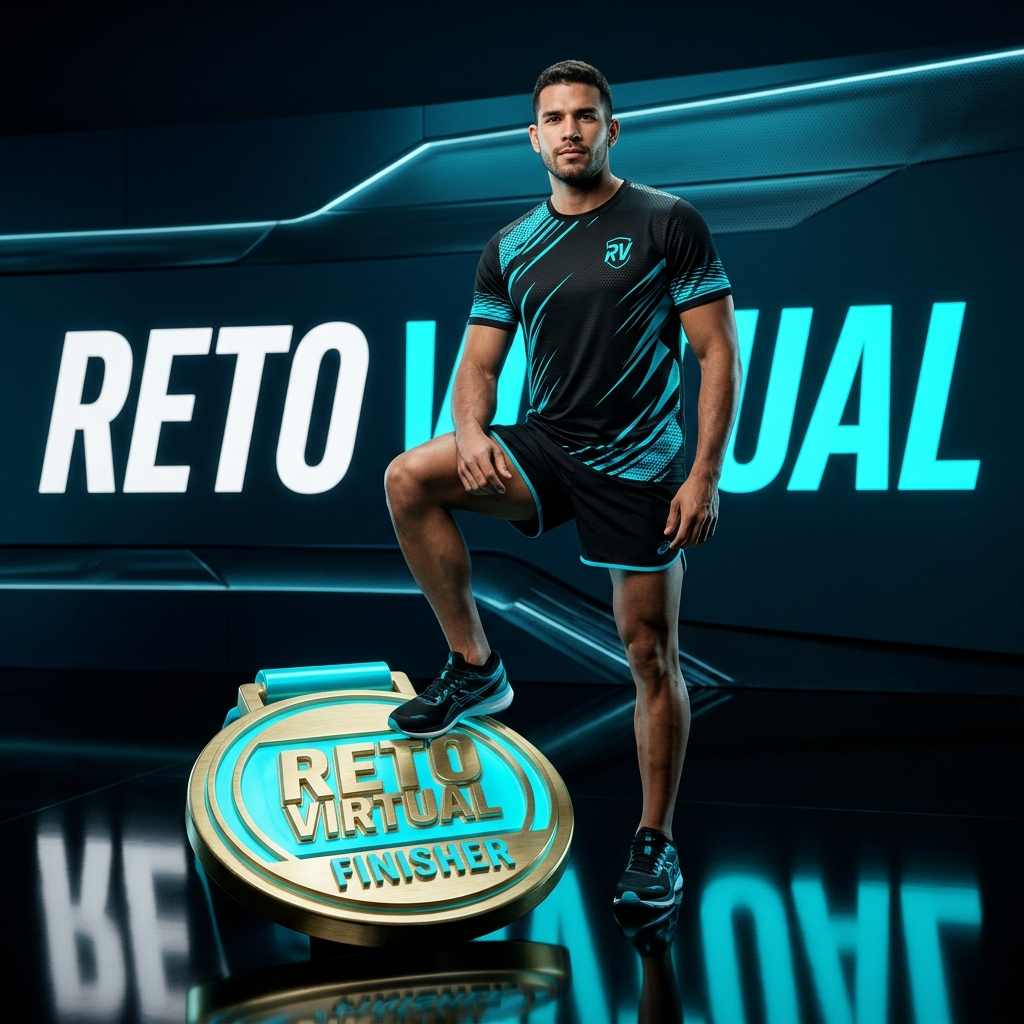
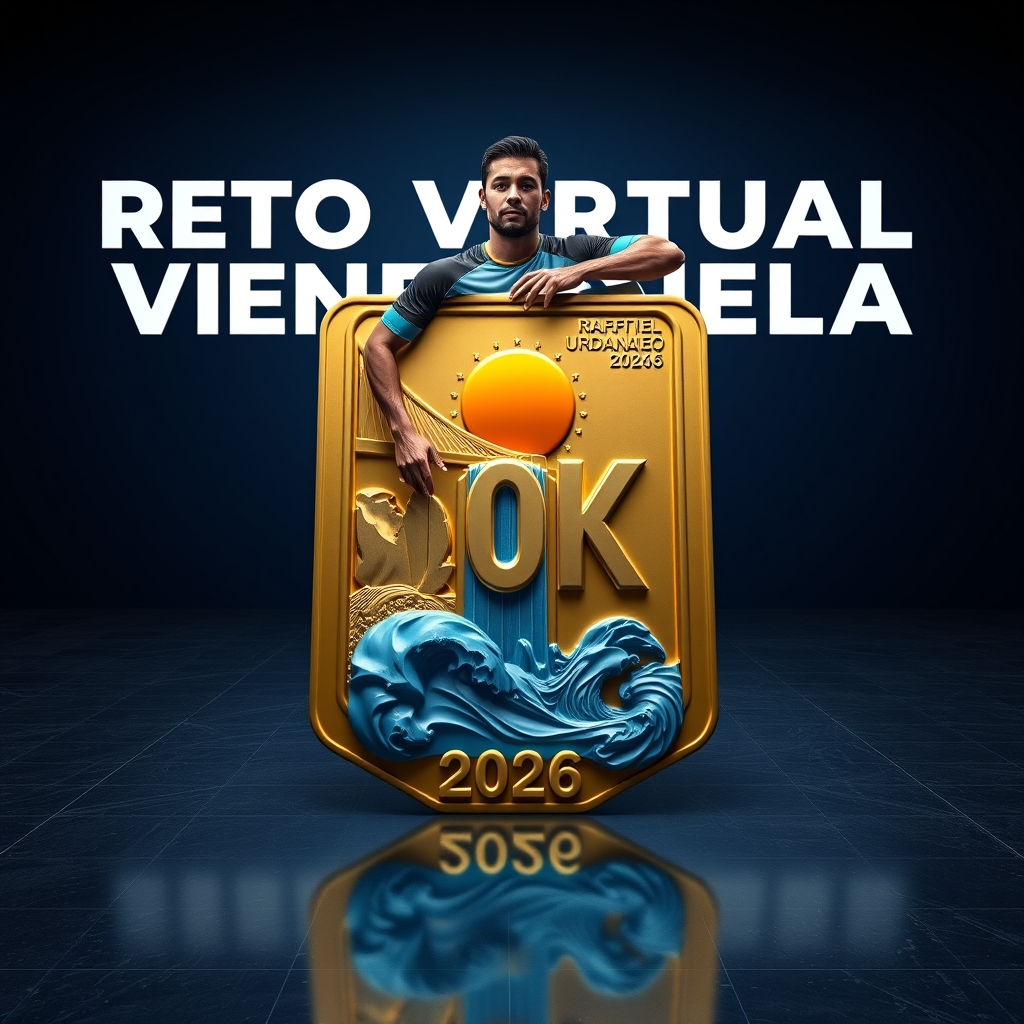
fix(estudio): calibrar medalla oficial rectangular 10K en Estilo 01 y Estilo 05

diff --git a/estudio.html b/estudio.html
@@ -337,7 +337,7 @@ const ESTILOS_CATALOGO = [
     ratio: "1:1",
     img: "img/estudio/estilo_05.jpg",
     desc: "Sentado sobre la medalla monumental en estudio verde oliva con la palabra RUN gigante detrás.",
-    prompt: `Avant-garde sports fashion advertising, a huge monumental 3D sculpture of the exact marathon medal and ribbon from the medal reference image, the athlete from the person reference photo (preserve 100% exact face identity and running outfit with bib) casually seated and sprawled across the top curved surface of the giant medal like modern luxury furniture, the huge word "RUN" in bold massive typography behind, burnt deep emerald olive green studio background, shiny mirrored floor with reflections, subtle small "RETO VIRTUAL VZLA" signature at bottom corner, luxurious sports editorial style, 1:1.`
+    prompt: `Avant-garde luxury sports editorial fashion advertising. Inside a burnt deep olive emerald green studio with a glossy dark reflective floor, the athlete from the reference photo (preserve 100% exact face identity and running outfit with bib) casually seated and lounging on top of a monumental giant 3D sculpture of the official Reto Virtual Venezuela 10K finisher medal: a majestic tall rectangular gold shield with embossed vertical 10K, the Maracaibo suspension bridge, Angel Falls waterfall and sculpted 2026 ocean wave. Behind them, massive bold three-dimensional sculpted letters spelling "RUN". Dramatic luxury editorial lighting, subtle floor reflections, 8k, ultra-pure composition, 1:1.`
   },
   {
     id: "06",
